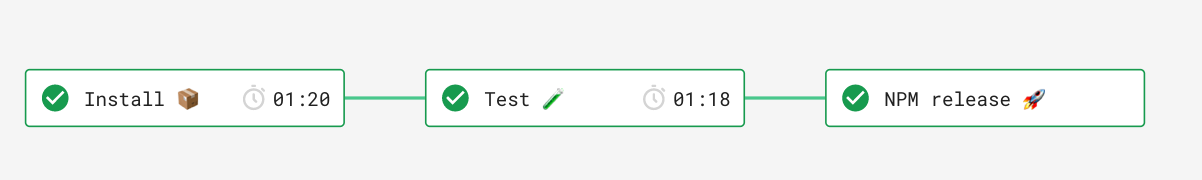
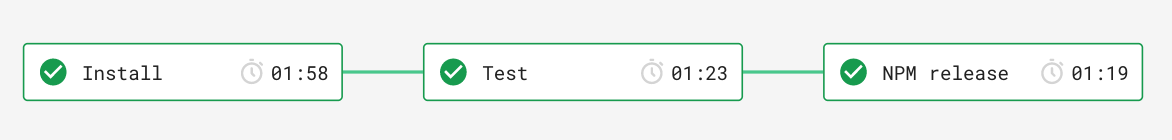
remove emoji and update images

diff --git a/docs/recipes.md b/docs/recipes.md
@@ -15,15 +15,15 @@ workflows:
       # AND build the library once
       # then the workspace will be passed to other jobs
       - cypress/install:
-          name: Install 📦
+          name: Install
           build: npm run transpile
 
       # the test job automatically attaches the workspace
       # created by the install job, so it is ready to test
       - cypress/run:
-          name: Test 🧪
+          name: Test
           requires:
-            - Install 📦
+            - Install
           # notice a trick to avoid re-installing dependencies
           # in this job - a do-nothing "install-command" parameter
           install-command: echo 'Nothing to install in this job'
@@ -34,12 +34,12 @@ workflows:
       # so it is ready to run Cypress tests
       # only we will run semantic release script instead
       - cypress/run:
-          name: NPM release 🚀
+          name: NPM release
           # we need newer Node for semantic release
           executor: cypress/base-12-6-0
           requires:
-            - Install 📦
-            - Test 🧪
+            - Install
+            - Test
           install-command: echo 'Nothing to install in this job'
           no-workspace: true
           # instead of "cypress run" do NPM release 😁
@@ -64,7 +64,7 @@ workflows:
       # first, run a single job to install dependencies and Cypress
       # and perform a few more small steps like linting
       - cypress/install:
-          name: Install 📦
+          name: Install
           post-steps:
             - run:
                 name: Show info 📺
@@ -77,9 +77,9 @@ workflows:
       # reuse the workspace from the install job
       # to run end-to-end tests in Electron browser
       - cypress/run:
-          name: Electron test 🧪
+          name: Electron test
           requires:
-            - Install 📦
+            - Install
           install-command: echo 'Nothing to install in this job'
           # to run tests, we need to start the web application
           start: npm start
@@ -89,10 +89,10 @@ workflows:
       # reuse the workspace from the install job
       # to run end-to-end tests in Firefox browser
       - cypress/run:
-          name: Firefox test 🦊🧪
+          name: Firefox test
           executor: cypress/browsers-chrome78-ff70
           requires:
-            - Install 📦
+            - Install
           install-command: echo 'Nothing to install in this job'
           # to run tests, we need to start the web application
           start: npm start
@@ -103,11 +103,11 @@ workflows:
 
       # wait for all jobs to finish and possible run NPM release
       - cypress/run:
-          name: NPM release 🚀
+          name: NPM release
           requires:
-            - Install 📦
-            - Electron test 🧪
-            - Firefox test 🦊🧪
+            - Install
+            - Electron test
+            - Firefox test
           # nothing to install - cypress/install job does it
           # and nothing to pass to the next job
           install-command: echo 'Nothing to install in this job'
